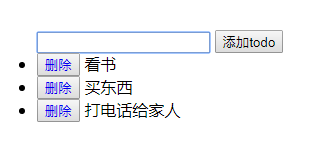
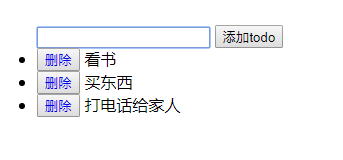
2

Changed region(s): [[0.0309, 0.1519, 0.8951, 0.7848]]

diff --git a/README.md b/README.md
@@ -4,5 +4,5 @@
     点击添加按钮,生成一个新todo
 ![a](https://github.com/cuzz1/Django-todo/raw/master/images/1.png)
 ## 2.删除todo功能
-    点击删除,删除一个todo,采用的是物理删除
+    点击删除按钮,删除一个todo,采用的是物理删除
 ![a](https://github.com/cuzz1/Django-todo/raw/master/images/2.png)
